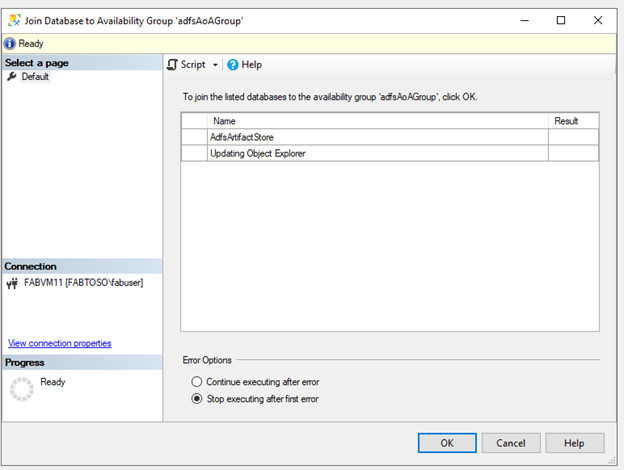
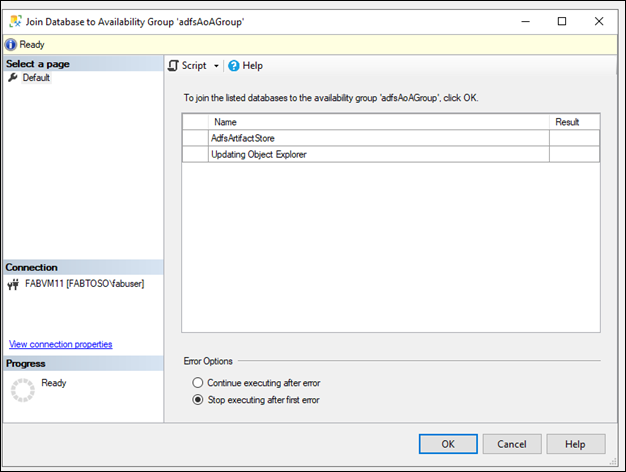
staging alwayson

diff --git a/WindowsServerDocs/identity/ad-fs/operations/ad-fs-always-on.md b/WindowsServerDocs/identity/ad-fs/operations/ad-fs-always-on.md
@@ -25,7 +25,7 @@ For more information on AlwaysOn Availability groups, see [Overview of AlwaysOn 
 From the perspective of the nodes of an AD FS SQL Server farm, the AlwaysOn Availability group replaces the single SQL Server instance as the policy / artifact database.  The availability group listener is what the client (the AD FS security token service) uses to connect to SQL.
 The following diagram shows an AD FS SQL Server Farm with AlwaysOn Availability group.
 
-![server farm using SQL](media/ad-fs-always-on/SQLoverview.jpg)
+![server farm using SQL](media/ad-fs-always-on/SQLoverview.png)
 
 An Always On Availability Group (AG) is a one or more user databases that fail over together. An availability group consists of a primary availability replica and one to four secondary replicas that are maintained through SQL Server log-based data movement for data protection without the need for shared storage. Each replica is hosted by an instance of SQL Server on a different node of the WSFC. The availability group and a corresponding virtual network name are registered as resources in the WSFC cluster.
 
@@ -96,16 +96,16 @@ Configuring an AD FS farm with AlwaysOn Availability groups requires a slight mo
 
 1.	The databases you wish to back up must be created before the AlwaysOn Availability groups can be configured.  AD FS creates its databases as part of the setup and initial configuration of the first federation service node of a new AD FS SQL Server farm.  Specify the database host name for the existing farm using SQL server. As part of the AD FS configuration, you must specify a SQL connection string, so you will have to configure the first AD FS farm to connect to a SQL instance directly (this is only temporary). For specific guidance on configuring an AD FS farm, including configuring an AD FS farm node with a SQL server connection string, see [Configure a Federation Server](https://docs.microsoft.com/windows-server/identity/ad-fs/deployment/configure-a-federation-server).
 
-![specify farm](media/ad-fs-always-on/deploymentSpecifyFarm.jpg)
+![specify farm](media/ad-fs-always-on/deploymentSpecifyFarm.png)
 
 2.	Verify connectivity to the database using SSMS and then connect to the targeted database host name. If adding another node to the federation farm, connect to the targeted database.
 3.	Specify the SSL certificate for the AD FS farm.
 
-![specify ssl cert](media/ad-fs-always-on/deploymentSpecifySSL.jpg)
+![specify ssl cert](media/ad-fs-always-on/deploymentSpecifySSL.png)
 
 4.	Connect the farm to a service account or gMSA.
 
-![specify Service account](media/ad-fs-always-on/deploymentSpecifyServiceAccount.jpg)
+![specify Service account](media/ad-fs-always-on/deploymentSpecifyServiceAccount.png)
 
 5.	Complete the AD FS farm configuration and installation.
 
@@ -120,12 +120,12 @@ The Windows Server Failover Cluster role provides the For more information on Wi
 4.	On the Select installation type page, select Role-based or feature-based installation, and then select Next.
 5.	On the Select destination server page, select the SQL server where you want to install the feature, and then select Next.
 
-![destination servers](media/ad-fs-always-on/clusteringDestinationServer.jpg)
+![destination servers](media/ad-fs-always-on/clusteringDestinationServer.png)
 
 6.	On the Select server roles page, select Next.
 7.	On the Select features page, select the Failover Clustering check box.
 
-![select clustering feature](media/ad-fs-always-on/clusteringFeature.jpg)
+![select clustering feature](media/ad-fs-always-on/clusteringFeature.png)
 
 8.	On the Confirm installation selections page, select Install.
 A server restart is not required for the Failover Clustering feature.
@@ -138,7 +138,7 @@ A server restart is not required for the Failover Clustering feature.
 3.	On the Before You Begin page, select Next.
 4.	On the Select Servers or a Cluster page, in the Enter name box, enter the NetBIOS name or the fully qualified domain name of a server that you plan to add as a failover cluster node, and then select Add. Repeat this step for each server that you want to add. To add multiple servers at the same time, separate the names by a comma or by a semicolon. For example, enter the names in the format server1.contoso.com, server2.contoso.com. When you are finished, select Next.
 
-![select servers picture](media/ad-fs-always-on/clusterValidationServers.jpg)
+![select servers picture](media/ad-fs-always-on/clusterValidationServers.png)
 
 5. On the Testing Options page, select Run all tests (recommended), and then select Next.
 6. On the Confirmation page, select Next.
@@ -146,7 +146,7 @@ The Validating page displays the status of the running tests.
 7. On the Summary page, do either of the following:
 - If the results indicate that the tests completed successfully and the configuration is suited for clustering, and you want to create the cluster immediately, make sure that the Create the cluster now using the validated nodes check box is selected, and then select Finish. Then, continue to step 4 of the [Create the failover cluster procedure](https://docs.microsoft.com/windows-server/failover-clustering/create-failover-cluster#create-the-failover-cluster).
 
-![validate configuration picture](media/ad-fs-always-on/clusterValidationResults.jpg)
+![validate configuration picture](media/ad-fs-always-on/clusterValidationResults.png)
 
 -	If the results indicate that there were warnings or failures, select View Report to view the details and determine which issues must be corrected. Realize that a warning for a particular validation test indicates that this aspect of the failover cluster can be supported, but might not meet the recommended best practices.
 
@@ -164,7 +164,7 @@ The Create Cluster Wizard opens.
 4.	On the Before You Begin page, select Next.
 5.	If the Select Servers page appears, in the Enter name box, enter the NetBIOS name or the fully qualified domain name of a server that you plan to add as a failover cluster node, and then select Add. Repeat this step for each server that you want to add. To add multiple servers at the same time, separate the names by a comma or a semicolon. For example, enter the names in the format server1.contoso.com; server2.contoso.com. When you are finished, select Next.
 
-![create cluster and select servers](media/ad-fs-always-on/createClusterServers.jpg)
+![create cluster and select servers](media/ad-fs-always-on/createClusterServers.png)
 
 > [!NOTE]
 > If you chose to create the cluster immediately after running validation in the [configuration validating procedure](https://docs.microsoft.com/windows-server/failover-clustering/create-failover-cluster#validate-the-configuration), you will not see the Select Servers page. The nodes that were validated are automatically added to the Create Cluster Wizard so that you do not have to enter them again.
@@ -186,7 +186,7 @@ The Create Cluster Wizard opens.
 11.	To confirm that the cluster was created, verify that the cluster name is listed under Failover Cluster Manager in the navigation tree. You can expand the cluster name, and then select items under Nodes, Storage or Networks to view the associated resources.
 Realize that it may take some time for the cluster name to successfully replicate in DNS. After successful DNS registration and replication, if you select All Servers in Server Manager, the cluster name should be listed as a server with a Manageability status of Online.
 
-![create cluster complete](media/ad-fs-always-on/createClusterComplete.jpg)
+![create cluster complete](media/ad-fs-always-on/createClusterComplete.png)
 
 ## Enable Always on Availability Groups with SQL Server Configuration Manager
 
@@ -198,14 +198,14 @@ Realize that it may take some time for the cluster name to successfully replicat
 6.	Select the Enable Always On Availability Groups check box, and click OK.
 SQL Server Configuration Manager saves your change. Then, you must manually restart the SQL Server service. This enables you to choose a restart time that is best for your business requirements. When the SQL Server service restarts, Always On will be enabled, and the IsHadrEnabled server property will be set to 1.
 
-![enable AoA](media/ad-fs-always-on/enableAoAGroup.jpg)
+![enable AoA](media/ad-fs-always-on/enableAoAGroup.png)
 
 ## Back up AD FS Databases
 Back up the AD FS configuration and artifact databases with the full transaction logs. Place the back up in the chosen destination.
 Back up the ADFS Artifact and Configuration databases.
 - Tasks > Backup > Full > Add to a backup file > ok to create
 
-![back up server](media/ad-fs-always-on/backUpADFS.jpg)
+![back up server](media/ad-fs-always-on/backUpADFS.png)
 
 ## Create New Availability Group
 
@@ -216,14 +216,14 @@ Back up the ADFS Artifact and Configuration databases.
 5.	On the Specify Availability Group Options page, enter the name of the new availability group in the Availability group name field. This name must be a valid SQL Server identifier that is unique on the cluster and in your domain as a whole. The maximum length for an availability group name is 128 characters. e
 6.	Next, specify the cluster type. The possible cluster types depend on the SQL Server version and operating system. Choose either WSFC, EXTERNAL, or NONE. For details see [Specify Availability Group Name](https://docs.microsoft.com/sql/database-engine/availability-groups/windows/specify-availability-group-name-page?view=sql-server-ver15) Page
 
-![name AoA Group and cluster](media/ad-fs-always-on/createAoAName.jpg)
+![name AoA Group and cluster](media/ad-fs-always-on/createAoAName.png)
 
 7.	On the Select Databases page, the grid lists user databases on the connected server instance that are eligible to become the availability databases. Select one or more of the listed databases to participate in the new availability group. These databases will initially be the initial primary databases.
 For each listed database, the Size column displays the database size, if known. The Status column indicates whether a given database meets the [prerequisites](https://docs.microsoft.com/sql/database-engine/availability-groups/windows/prereqs-restrictions-recommendations-always-on-availability?view=sql-server-ver15) for availability databases. It the prerequisites are not met, a brief status description indicates the reason that the database is ineligible; for example, if it does not use the full recovery model. For more information, click the status description.
 If you change a database to make it eligible, click Refresh to update the databases grid.
 If the database contains a database master key, enter the password for the database master key in the Password column.
 
-![select databases for AoA](media/ad-fs-always-on/createAoASelectDb.jpg)
+![select databases for AoA](media/ad-fs-always-on/createAoASelectDb.png)
 
 8.On the Specify Replicas page, specify and configure one or more replicas for the new availability group. This page contains four tabs. The following table introduces these tabs. For more information, see the [Specify Replicas Page (New Availability Group Wizard: Add Replica Wizard)](https://docs.microsoft.com/sql/database-engine/availability-groups/windows/specify-replicas-page-new-availability-group-wizard-add-replica-wizard?view=sql-server-ver15) topic.
 
@@ -234,7 +234,7 @@ If the database contains a database master key, enter the password for the datab
 | Backup Preferences | Use this tab to specify your backup preference for the availability group as a whole and your backup priorities for the individual availability replicas.      |
 | Listener     | Use this tab to create an availability group listener. By default, the wizard does not create a listener.      |
 
-![specify Replica details](media/ad-fs-always-on/createAoAchooseReplica.jpg)
+![specify Replica details](media/ad-fs-always-on/createAoAchooseReplica.png)
 
 9. On the Select Initial Data Synchronization page, choose how you want your new secondary databases to be created and joined to the availability group. Choose one of the following options:
 - 	Automatic seeding
@@ -248,7 +248,7 @@ In the Specify a shared network location accessible by all replicas: field, spec
 - Skip initial data synchronization
  - Select this option if you want to use your own database and log backups of your primary databases. For more information, see [Start Data Movement on an Always On Secondary Database (SQL Server)](https://docs.microsoft.com/sql/database-engine/availability-groups/windows/start-data-movement-on-an-always-on-secondary-database-sql-server?view=sql-server-ver15).
 
-![choose data sync option](media/ad-fs-always-on/createAoADataSync.jpg)
+![choose data sync option](media/ad-fs-always-on/createAoADataSync.png)
 
 9.	The Validation page verifies whether the values you specified in this Wizard meet the requirements of the New Availability Group Wizard. To make a change, click Previous to return to an earlier wizard page to change one or more values. The click Next to return to the Validation page, and click Re-run Validation.
 
@@ -262,7 +262,7 @@ In the Specify a shared network location accessible by all replicas: field, spec
 12.	When these steps complete, the Results page displays the result of each step. If all these steps succeed, the new availability group is completely configured. If any of the steps result in an error, you might need to manually complete the configuration or use a wizard for the failed step. For information about the cause of a given error, click the associated "Error" link in the Result column.
 When the wizard completes, click Close to exit.
 
-![validation complete](media/ad-fs-always-on/createAoAValidation.jpg)
+![validation complete](media/ad-fs-always-on/createAoAValidation.png)
 
 ## Add Databases on Secondary Node
 
